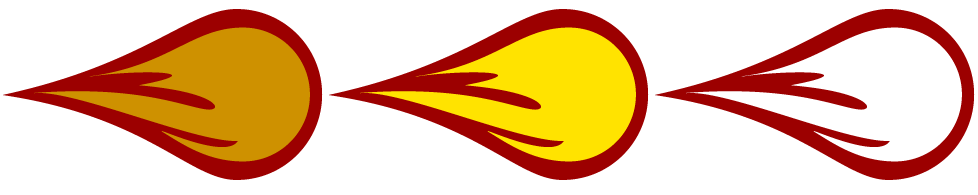
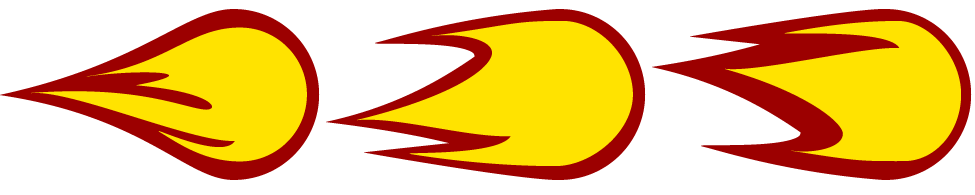
Update to the new fireball

diff --git a/src/states/game.js b/src/states/game.js
@@ -18,7 +18,7 @@ gameState.prototype = {
     },
 
     preload: function () {
-        this.game.load.spritesheet('fireball', 'assets/prod/effects/fireball.png', 55, 32);
+        this.game.load.spritesheet('fireball', 'assets/prod/effects/fireball.png', 53, 32);
         this.game.load.spritesheet('missile', 'assets/prod/effects/missile.png', 84, 36);
         this.game.load.spritesheet('invader', 'assets/example/invader32x32x4.png', 64, 64);
         this.game.load.spritesheet('kaboom', 'assets/prod/effects/explosion.png', 512, 512, 8);
